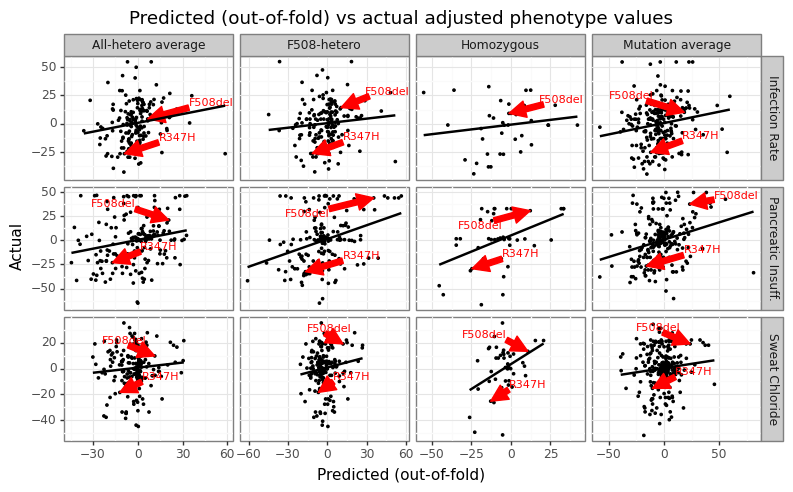
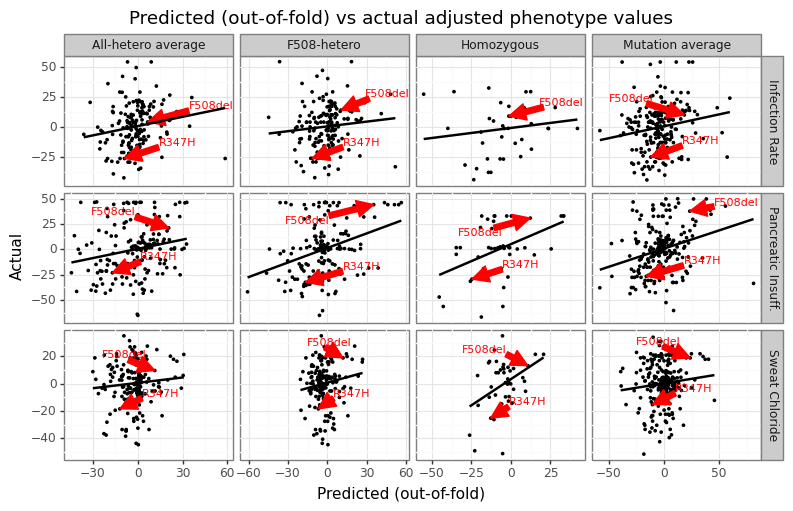
running test with lung added to ylabels

diff --git a/7_debias_y.py b/7_debias_y.py
@@ -105,13 +105,14 @@ adj_y.to_csv(os.path.join(dir_data,'y_adjusted.csv'),index=True)
 
 # (i) Plot the within-y label correlation
 posd = pn.position_dodge(0.5)
+ylb = min(0,np.round(rho_y.lb.min() * 10) / 10)
 gg_rho_y = (pn.ggplot(rho_y, pn.aes(x='xlbl',y='rho',color='y',shape='method')) + 
     pn.theme_bw() + pn.geom_point(position=posd) + 
     pn.geom_linerange(pn.aes(ymin='lb',ymax='ub'),position=posd) + 
     pn.labs(y='Correlation coefficient') +
     pn.scale_color_discrete(name='Label') + 
     pn.scale_shape_discrete(name='Correlation method') + 
-    pn.scale_y_continuous(limits=[0,1],labels=percent_format()) + 
+    pn.scale_y_continuous(limits=[ylb,1],labels=percent_format()) + 
     pn.geom_hline(yintercept=0,linetype='--') + 
     pn.theme(axis_text_x=pn.element_text(angle=90),axis_title_x=pn.element_blank()) + 
     pn.ggtitle('Correlation within types\nLine range shows 95% BS-CI'))
@@ -125,7 +126,7 @@ dat_nw['lbl'] = cat_from_map(dat_nw['lbl'], di_ylbl)
 dat_nw = dat_nw.assign(grp=lambda x: x['category'].cat.codes.astype(str)+x['lbl'].cat.codes.astype(str))
 perf_nw['category'] = cat_from_map(perf_nw['category'], di_category)
 perf_nw['lbl'] = cat_from_map(perf_nw['lbl'], di_ylbl)
-
+h = 2.5*dat_nw['category'].nunique()
 gg_nw_ylbl = (pn.ggplot(dat_nw,pn.aes(x='x',y='y')) + 
     pn.theme_bw() + pn.geom_point() + 
     pn.geom_line(pn.aes(y='yhat',group='grp'),color='blue') + 
@@ -134,7 +135,7 @@ gg_nw_ylbl = (pn.ggplot(dat_nw,pn.aes(x='x',y='y')) +
     pn.ggtitle('Dots show actual value\nBlue line and ranges is Nadarya-Watson Estimator and 95% CI for LOO-CV') + 
     pn.labs(x='Amino acid length', y='Phenotype value') + 
     pn.facet_grid('category ~ lbl',scales='free'))
-gg_nw_ylbl.save(os.path.join(dir_figures,'nw_ylbl.png'),width=10, height=7.5)
+gg_nw_ylbl.save(os.path.join(dir_figures,'nw_ylbl.png'),width=10, height=h)
 
 
 

diff --git a/8_predict_y.py b/8_predict_y.py
@@ -83,7 +83,8 @@ from utilities.processing import di_ylbl, di_category
 from utilities.stats import get_perf_msrs, bootstrap_function
 
 # (i) Clean up the names for plotting
-tmp_df = dat_scatter['cn'].str.split('\\_',regex=True,n=1,expand=True).rename(columns={0:'category',1:'lbl'})
+tmp_df = dat_scatter['cn'].str.split('\\_',regex=True)
+tmp_df = pd.DataFrame({'category':tmp_df.str[:-1].map('_'.join), 'lbl':tmp_df.str[-1]})
 tmp_df['lbl'] = tmp_df['lbl'].map(di_ylbl)
 tmp_df['category'] = tmp_df['category'].map(di_category)
 dat_eval = pd.concat(objs=[tmp_df, dat_scatter.drop(columns='cn')],axis=1)
@@ -96,6 +97,7 @@ res_fold['msr'] = res_fold['msr'].map({'rho':'Spearman', 'tau':'Kendall'})
 
 # (iii) Plot the predicted vs actual values
 tmp_txt = dat_eval.query('idx.isin(["F508del","R347H"])').copy()
+h = 1.75*dat_eval['category'].nunique()
 gg_oof_scatter = (pn.ggplot(dat_eval, pn.aes(x='yhat',y='y')) + 
     pn.theme_bw() + pn.geom_point(size=0.5) + 
     pn.labs(x='Predicted (out-of-fold)',y='Actual') + 
@@ -103,7 +105,7 @@ gg_oof_scatter = (pn.ggplot(dat_eval, pn.aes(x='yhat',y='y')) +
     pn.facet_grid('category~lbl',scales='free') + 
     pn.ggtitle('Predicted (out-of-fold) vs actual adjusted phenotype values') + 
     pn.geom_smooth(method='lm',se=False))
-gg_oof_scatter.save(os.path.join(dir_figures, 'oof_scatter.png'),width=9,height=5)
+gg_oof_scatter.save(os.path.join(dir_figures, 'oof_scatter.png'),width=9,height=h)
 
 
 # (iv) Plot the overall performance
